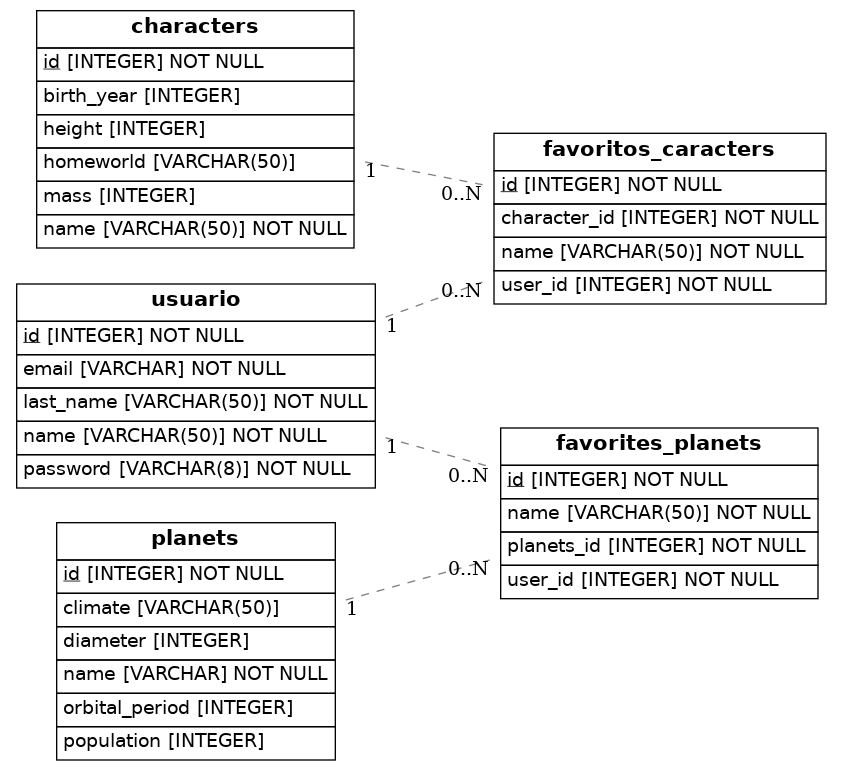
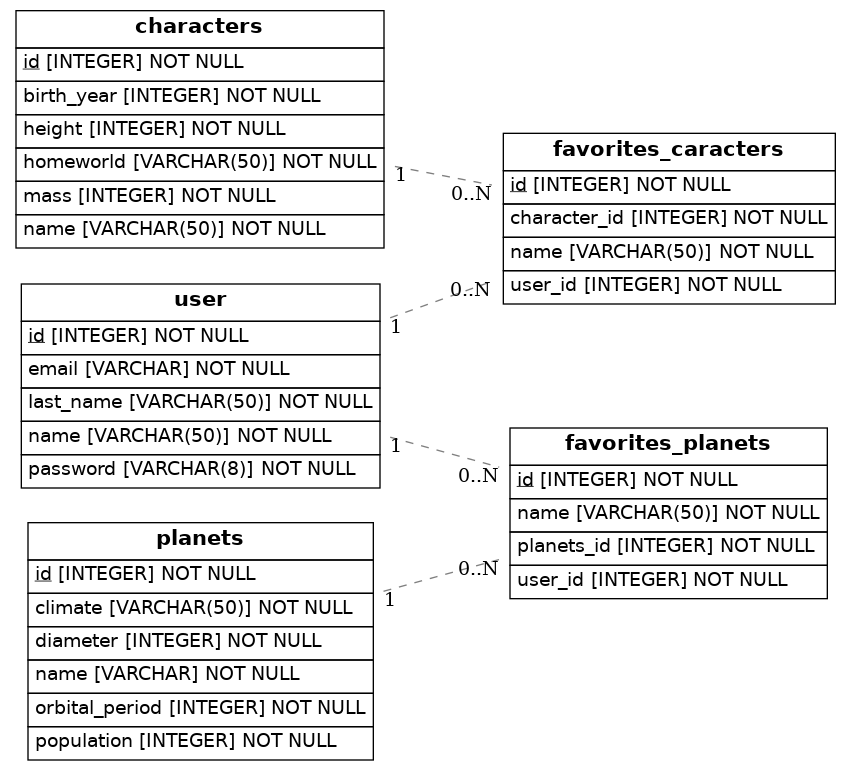
final commit

diff --git a/src/models.py b/src/models.py
@@ -7,90 +7,53 @@ from typing import List
 
 Base = declarative_base()
 
-# class Person(Base):
-#     __tablename__ = 'person'
-#     # Here we define columns for the table person
-#     # Notice that each column is also a normal Python instance attribute.
-#     id: Mapped[int] = mapped_column(primary_key=True)
-#     name: Mapped[str] = mapped_column(nullable=False)
-
-class Usuario(Base):
-    __tablename__ = 'usuario'
-    # Here we define columns for the table person
-    # Notice that each column is also a normal Python instance attribute.
+class User(Base):
+    __tablename__ = 'user'
     id: Mapped[int] = mapped_column(primary_key=True)
     name: Mapped[str] = mapped_column(String(50), nullable=False)
     last_name: Mapped[str] = mapped_column(String(50), nullable=False)
     email: Mapped[str] = mapped_column(nullable=False, unique=True)
     password: Mapped[str] = mapped_column(String(8), nullable=False)
-    favoritos_caracteres: Mapped[List["Favorites_caracters"]] = relationship(back_populates="usuario")
-    
-# user = relationship('User', back_populates='favorites')
+    favorites_caracteres: Mapped[List["Favorites_caracters"]] = relationship(back_populates="user")
+    favorites_planetas: Mapped[List["Favorites_caracters"]] = relationship(back_populates="user")
+
 
 
 class Favorites_caracters(Base):
-    __tablename__ = 'favoritos_caracters'
-    # Here we define columns for the table address.
-    # Notice that each column is also a normal Python instance attribute.
+    __tablename__ = 'favorites_caracters'
     id: Mapped[int] = mapped_column(primary_key=True)
     name: Mapped[str] = mapped_column(String(50), nullable=False)
-    user_id: Mapped[int] = mapped_column(ForeignKey('usuario.id'), nullable=False)
+    user_id: Mapped[int] = mapped_column(ForeignKey('user.id'), nullable=False)
     character_id: Mapped[int] = mapped_column(ForeignKey('characters.id'), nullable=False)
-    #Como se pondría una clave foranea y un nullable=false? y un max de (String(50) con un nullable?)
 
 class Favorites_planets(Base):
     __tablename__ = 'favorites_planets'
-    # Here we define columns for the table address.
-    # Notice that each column is also a normal Python instance attribute.
     id: Mapped[int] = mapped_column(primary_key=True)
     name: Mapped[str] = mapped_column(String(50), nullable=False)
-    user_id: Mapped[int] = mapped_column(ForeignKey('usuario.id'), nullable=False)
+    user_id: Mapped[int] = mapped_column(ForeignKey('user.id'), nullable=False)
     planets_id: Mapped[int] = mapped_column(ForeignKey('planets.id'), nullable=False)
 
 class Characters(Base):
     __tablename__ = 'characters'
-    # Here we define columns for the table address.
-    # Notice that each column is also a normal Python instance attribute.
     id: Mapped[int] = mapped_column(primary_key=True)
     name: Mapped[str] = mapped_column(String(50), nullable=False)
-    height: Mapped[int] = mapped_column(Integer, nullable=True)
-    mass: Mapped[int] = mapped_column(Integer, nullable=True)
-    birth_year: Mapped[int] = mapped_column(Integer, nullable=True)
-    homeworld: Mapped[str] = mapped_column(String(50), nullable=True)
-    favoritos: Mapped[List["Favorites_caracters"]] = relationship("Favorites_caracters", back_populates="character")
+    height: Mapped[int] = mapped_column(Integer, nullable=False)
+    mass: Mapped[int] = mapped_column(Integer, nullable=False)
+    birth_year: Mapped[int] = mapped_column(Integer, nullable=False)
+    homeworld: Mapped[str] = mapped_column(String(50), nullable=False)
+    favorites: Mapped[List["Favorites_caracters"]] = relationship("Favorites_caracters", back_populates="character")
     
     
 
 class Planets(Base):
     __tablename__ = 'planets'
-    # Here we define columns for the table address.
-    # Notice that each column is also a normal Python instance attribute.
     id: Mapped[int] = mapped_column(primary_key=True)
     name: Mapped[str] = mapped_column(nullable=False)
-    climate: Mapped[str] = mapped_column(String(50), nullable=True)
-    population: Mapped[int] = mapped_column(Integer, nullable=True)
-    diameter: Mapped[int] = mapped_column(Integer, nullable=True)
-    orbital_period: Mapped[int] = mapped_column(Integer, nullable=True)
+    climate: Mapped[str] = mapped_column(String(50), nullable=False)
+    population: Mapped[int] = mapped_column(Integer, nullable=False)
+    diameter: Mapped[int] = mapped_column(Integer, nullable=False)
+    orbital_period: Mapped[int] = mapped_column(Integer, nullable=False)
     favoritos: Mapped[List["Favorites_planets"]] = relationship("Favorites_planets", back_populates="planet")
-
-    
-
-
-
-
-
-
-
-# class Address(Base):
-#     __tablename__ = 'address'
-#     # Here we define columns for the table address.
-#     # Notice that each column is also a normal Python instance attribute.
-#     id: Mapped[int] = mapped_column(primary_key=True)
-#     street_name: Mapped[str]
-#     street_number: Mapped[str]
-#     post_code: Mapped[str] = mapped_column(nullable=False)
-
-
 
 
 
